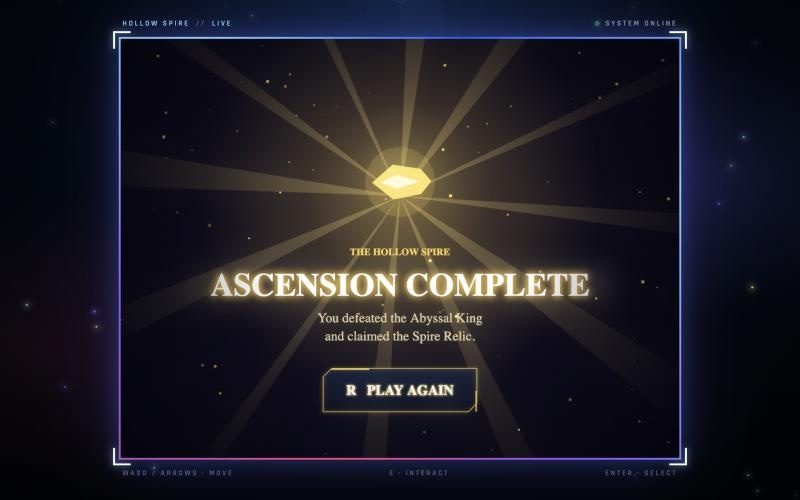
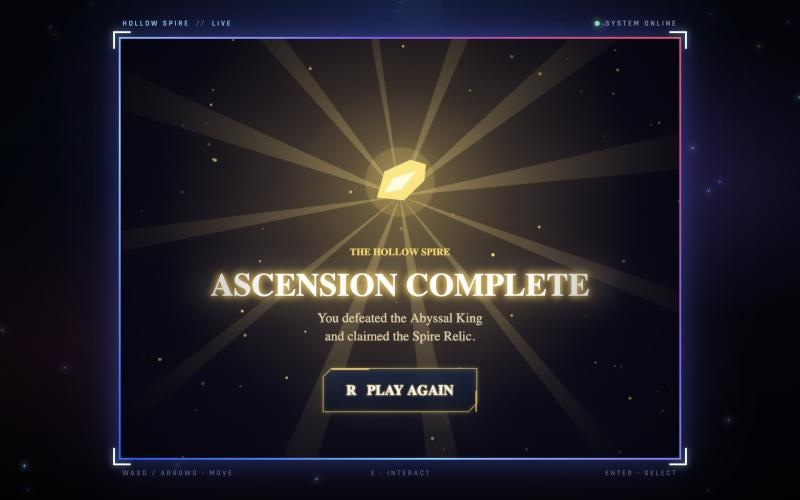
Hollow Spire: retake screenshots with the centred info bar

diff --git a/script.js b/script.js
@@ -177,14 +177,14 @@ const projects = [
     live: `${PAGES}/hollow-spire/`,
     source: `${GITHUB}/hollow-spire`,
     images: [
-      "images/hollow-1.jpg?v=3",
-      "images/hollow-2.jpg?v=3",
-      "images/hollow-3.jpg?v=3",
-      "images/hollow-4.jpg?v=3",
-      "images/hollow-5.jpg?v=3",
-      "images/hollow-6.jpg?v=3",
-      "images/hollow-7.jpg?v=3",
-      "images/hollow-8.jpg?v=3"
+      "images/hollow-1.jpg?v=4",
+      "images/hollow-2.jpg?v=4",
+      "images/hollow-3.jpg?v=4",
+      "images/hollow-4.jpg?v=4",
+      "images/hollow-5.jpg?v=4",
+      "images/hollow-6.jpg?v=4",
+      "images/hollow-7.jpg?v=4",
+      "images/hollow-8.jpg?v=4"
     ]
   }
 ];

diff --git a/index.html b/index.html
@@ -6,8 +6,8 @@
   <meta name="viewport" content="width=device-width, initial-scale=1.0">
   <meta name="description" content="Computer Science undergraduate portfolio featuring web development, interactive applications and university projects.">
   <title>Developer Portfolio | Computer Science</title>
-  <link rel="stylesheet" href="style.css?v=202611261946">
-  <script src="script.js?v=202611261946" defer></script>
+  <link rel="stylesheet" href="style.css?v=202611261951">
+  <script src="script.js?v=202611261951" defer></script>
 </head>
 
 <body>

diff --git a/projects.html b/projects.html
@@ -6,8 +6,8 @@
   <meta name="viewport" content="width=device-width, initial-scale=1.0">
   <meta name="description" content="Computer Science portfolio projects featuring web development, creative programming and interactive digital experiences.">
   <title>Projects | My Portfolio</title>
-  <link rel="stylesheet" href="style.css?v=202611261946">
-  <script src="script.js?v=202611261946" defer></script>
+  <link rel="stylesheet" href="style.css?v=202611261951">
+  <script src="script.js?v=202611261951" defer></script>
 </head>
 
 <body>

diff --git a/contact.html b/contact.html
@@ -6,8 +6,8 @@
   <meta name="viewport" content="width=device-width, initial-scale=1.0">
   <meta name="description" content="Contact page for my Computer Science portfolio.">
   <title>Contact | My Portfolio</title>
-  <link rel="stylesheet" href="style.css?v=202611261946">
-  <script src="script.js?v=202611261946" defer></script>
+  <link rel="stylesheet" href="style.css?v=202611261951">
+  <script src="script.js?v=202611261951" defer></script>
 </head>
 
 <body>
